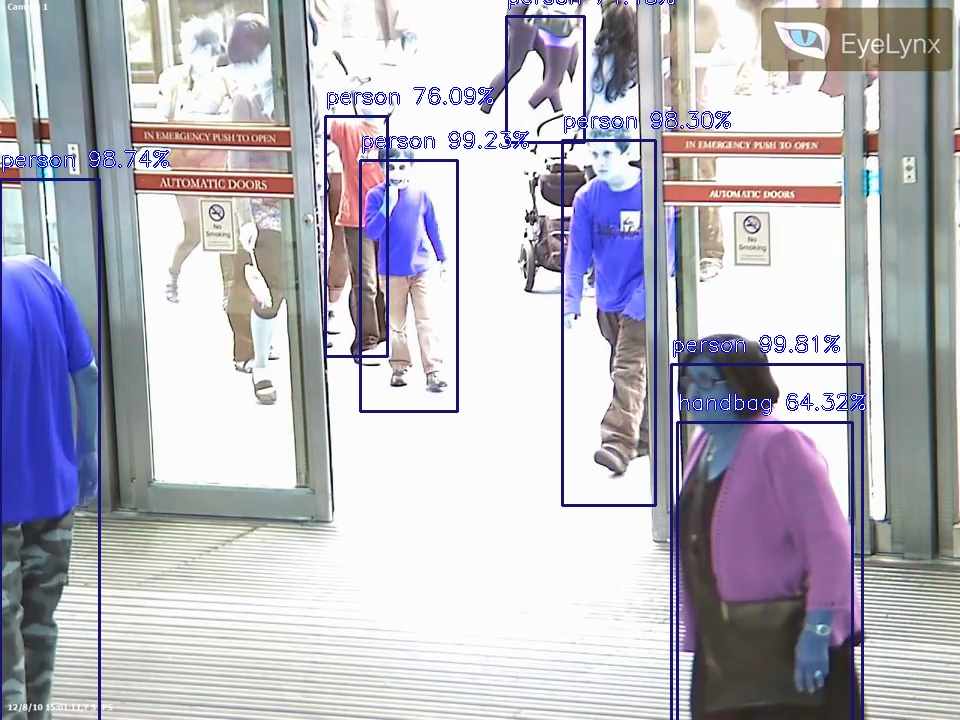
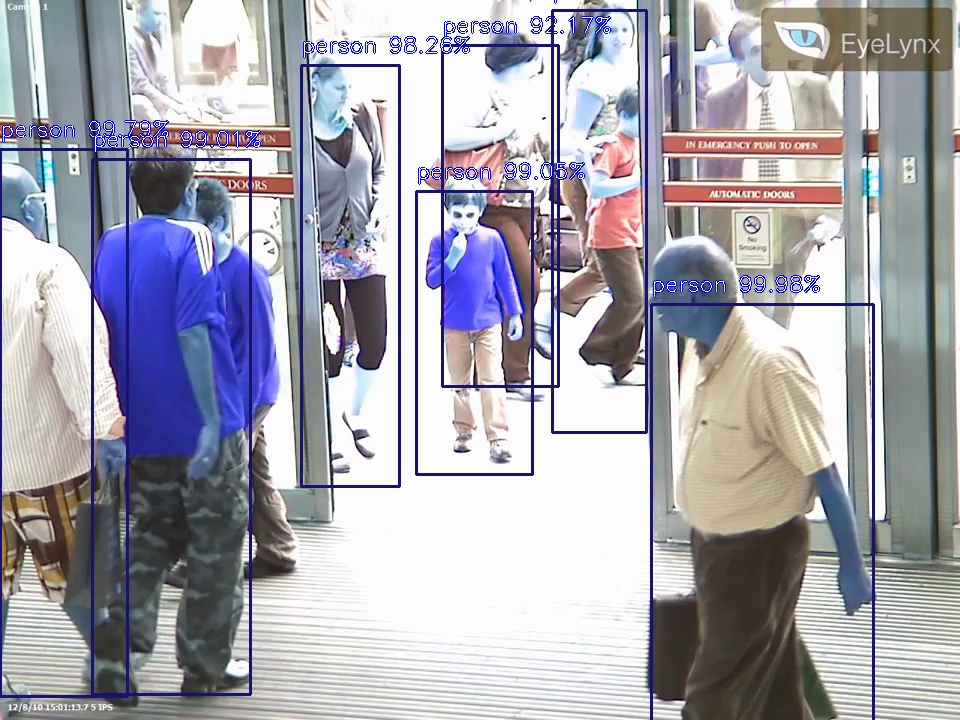
sr gan added

diff --git a/image_enhancing.py b/image_enhancing.py
@@ -1,0 +1,131 @@
+# -*- coding: utf-8 -*-
+"""image_enhancing.ipynb
+
+Automatically generated by Colaboratory.
+
+Original file is located at
+    https://colab.research.google.com/github/tensorflow/hub/blob/master/examples/colab/image_enhancing.ipynb
+
+##### Copyright 2019 The TensorFlow Hub Authors.
+Licensed under the Apache License, Version 2.0 (the "License");
+
+Created by @[Adrish Dey](https://github.com/captain-pool) for [Google Summer of Code](https://summerofcode.withgoogle.com/) 2019
+"""
+
+# Copyright 2019 The TensorFlow Hub Authors. All Rights Reserved.
+#
+# Licensed under the Apache License, Version 2.0 (the "License");
+# you may not use this file except in compliance with the License.
+# You may obtain a copy of the License at
+#
+#     http://www.apache.org/licenses/LICENSE-2.0
+#
+# Unless required by applicable law or agreed to in writing, software
+# distributed under the License is distributed on an "AS IS" BASIS, 
+# WITHOUT WARRANTIES OR CONDITIONS OF ANY KIND, either express or implied.
+# See the License for the specific language governing permissions and
+# limitations under the License.
+# ==============================================================================
+
+"""# Image Super Resolution using ESRGAN
+
+<table class="tfo-notebook-buttons" align="left">
+  <td>
+    <a target="_blank" href="https://www.tensorflow.org/hub/tutorials/image_enhancing"><img src="https://www.tensorflow.org/images/tf_logo_32px.png" />View on TensorFlow.org</a>
+  </td>
+  <td>
+    <a target="_blank" href="https://colab.research.google.com/github/tensorflow/hub/blob/master/examples/colab/image_enhancing.ipynb"><img src="https://www.tensorflow.org/images/colab_logo_32px.png" />Run in Google Colab</a>
+  </td>
+  <td>
+    <a target="_blank" href="https://github.com/tensorflow/hub/blob/master/examples/colab/image_enhancing.ipynb"><img src="https://www.tensorflow.org/images/GitHub-Mark-32px.png" />View on GitHub</a>
+  </td>
+  <td>
+    <a href="https://storage.googleapis.com/tensorflow_docs/hub/examples/colab/image_enhancing.ipynb"><img src="https://www.tensorflow.org/images/download_logo_32px.png" />Download notebook</a>
+  </td>
+  <td>
+    <a href="https://tfhub.dev/captain-pool/esrgan-tf2/1"><img src="https://www.tensorflow.org/images/hub_logo_32px.png" />See TF Hub model</a>
+  </td>
+</table>
+
+This colab demonstrates use of TensorFlow Hub Module for Enhanced Super Resolution Generative Adversarial Network (*by Xintao Wang et.al.*) [[Paper](https://arxiv.org/pdf/1809.00219.pdf)] [[Code](https://github.com/captain-pool/GSOC/)]
+
+for image enhancing. *(Preferrably bicubically downsampled images).*
+
+Model trained on DIV2K Dataset (on bicubically downsampled images) on image patches of size 128 x 128.
+
+**Preparing Environment**
+"""
+
+import os
+import time
+from turtle import shape
+from PIL import Image
+import numpy as np
+import tensorflow as tf
+import tensorflow_hub as hub
+import matplotlib.pyplot as plt
+os.environ["TFHUB_DOWNLOAD_PROGRESS"] = "True"
+
+
+def enhance(img):
+
+  # Declaring Constants
+
+  SAVED_MODEL_PATH = "https://tfhub.dev/captain-pool/esrgan-tf2/1"
+
+  """**Defining Helper Functions**"""
+
+  def preprocess_image(img):
+    """ Loads image from path and preprocesses to make it model ready
+        Args:
+          image_path: Path to the image file
+    """
+    hr_image = tf.convert_to_tensor(img)
+    # If PNG, remove the alpha channel. The model only supports
+    # images with 3 color channels.
+    if hr_image.shape[-1] == 4:
+      hr_image = hr_image[...,:-1]
+    hr_size = (tf.convert_to_tensor(hr_image.shape[:-1]) // 4) * 4
+    hr_image = tf.image.crop_to_bounding_box(hr_image, 0, 0, hr_size[0], hr_size[1])
+    hr_image = tf.cast(hr_image, tf.float32)
+    return tf.expand_dims(hr_image, 0)
+
+  # Commented out IPython magic to ensure Python compatibility.
+  # %matplotlib inline
+  def plot_image(image, title=""):
+    """
+      Plots images from image tensors.
+      Args:
+        image: 3D image tensor. [height, width, channels].
+        title: Title to display in the plot.
+    """
+    image = np.asarray(image)
+    image = tf.clip_by_value(image, 0, 255)
+    image = Image.fromarray(tf.cast(image, tf.uint8).numpy())
+    plt.imshow(image)
+    plt.axis("off")
+    plt.title(title)
+
+  """#### Performing Super Resolution of images loaded from path"""
+
+  hr_image = preprocess_image(img)
+  shape_hr = hr_image.shape
+  print("hr ",shape_hr)
+  # # Plotting Original Resolution image
+  # plot_image(tf.squeeze(hr_image), title="Original Image")
+  # save_image(tf.squeeze(hr_image), filename="Original Image")
+
+  model = hub.load(SAVED_MODEL_PATH)
+
+  start = time.time()
+  fake_image = model(hr_image)
+  fake_image = tf.squeeze(fake_image)
+  print(fake_image.shape)
+  fake_image=tf.constant(fake_image).numpy().astype(np.uint8)
+  print(fake_image.shape)
+  print("Time Taken: %f" % (time.time() - start))
+  return fake_image
+
+  # # Plotting Super Resolution Image
+  # plot_image(tf.squeeze(fake_image), title="Super Resolution")
+  # save_image(tf.squeeze(fake_image), filename="Super Resolution")

diff --git a/main.py b/main.py
@@ -7,11 +7,13 @@ from PIL import Image
 from gender_model import ResNet9, get_default_device, to_device
 import torchvision.transforms as tt
 from age_model import Age_Model
-import scipy
+from scipy import special
 import os
 import time
 import gdown
 from imageai.Detection import ObjectDetection
+import matplotlib.pyplot as plt
+from image_enhancing import enhance
 
 # get present device
 device = get_default_device()
@@ -76,7 +78,7 @@ def predict_gender(img):
     # Get predictions from model
     yb = model_gender(xb)
     # print(yb)
-    probs = scipy.special.softmax(yb.detach().numpy()[0])
+    probs = special.softmax(yb.detach().numpy()[0])
     # print(probs)
     confidence=str(round((max(probs))*100,2))+"%" 
     # Pick index with highest probability
@@ -87,7 +89,7 @@ def predict_gender(img):
 
 def testVideos(vd,i):
     dict={"frame":[],"personid":[],"bb_xmin":[],"bb_ymin":[],"bb_height":[],"bb_width":[],"age_min":[],"age_max":[],"age_actual":[],"gender":[]}
-    x=0
+    frameno=0
     # used to record the time when we processed last frame
     prev_frame_time = 0
     # used to record the time at which we processed current frame
@@ -96,7 +98,7 @@ def testVideos(vd,i):
     # Get a reference to webcam 
     video_capture = cv2.VideoCapture(vd)
     while video_capture.isOpened():
-        x+=1
+        frameno+=1
         # Grab a single frame of video
         ret, frame = video_capture.read()
 
@@ -109,7 +111,9 @@ def testVideos(vd,i):
         # detections = detector.detectObjectsFromImage(input_image=os.path.join(execution_path , "img2.png"), output_image_path=os.path.join(execution_path , "image2new.jpg"), minimum_percentage_probability=30)
         detections = detector.detectObjectsFromImage(input_type="array", input_image=rgb_frame , output_image_path=os.path.join(execution_path , "image.jpg")) # For numpy array input type
         person=0
+        dy = 25
         for eachObject in detections:
+            flag=1
             if(eachObject["name"]=="person"):
                 person+=1
                 print(eachObject["name"] , " : ", eachObject["percentage_probability"], " : ", eachObject["box_points"] )
@@ -117,19 +121,27 @@ def testVideos(vd,i):
                 # Find all the faces in the current frame of video
                             # Find all the faces in the current frame of video
                 x, y, width, height = eachObject["box_points"]
-                # print(x,",",y,",",width,",",height)
+                print(x,",",y,",",width,",",height)
+                print(rgb_frame.shape)
 
-                cv2.rectangle(frame, (x, y), (width, height), (0, 0, 255), 2)
+                cv2.rectangle(frame, (x, max(y-dy,0)), (width, height), (0, 0, 255), 2)
                 
                 # croping the detected body out of the frame
-                center_img_k = rgb_frame[x:width, 
-                                y:height, :]
+                center_img_k = rgb_frame[max(y-dy,0):height, x:width, :]
+                # plt.imshow(Image.fromarray(center_img_k))
+                # plt.show()
+                # print(center_img_k.shape)
+                # center_img_k=enhance(center_img_k)
+                # plt.imshow(Image.fromarray(center_img_k))
+                # plt.show()
+                # cv2.imwrite("original.png",(center_img_k))
                 face_locations = detect_face(center_img_k)
                 # Display the results
                 for top, right, bottom, left, sex_preds, age_preds in face_locations:
+                    print("flag: ",flag,", x=",frameno)
                     dict["age_actual"].append(age_preds)
                     dict["gender"].append(sex_preds)
-                    dict["frame"].append(x)
+                    dict["frame"].append(frameno)
                     dict["personid"].append(person)
                     dict["bb_xmin"].append(min(x,width))
                     dict["bb_ymin"].append(min(y,height))
@@ -139,10 +151,15 @@ def testVideos(vd,i):
                     dict["age_max"].append("Nan")
                     print(person)
                     # Draw a box around the face
+                    left+=x
+                    top+=y
+                    right+=x
+                    bottom+=y
                     cv2.rectangle(frame, (left, top), (right, bottom), (255, 0, 255), 2)
                     text1="Gender: "+sex_preds
                     cv2.putText(frame, text1, (left, top-10), cv2.FONT_HERSHEY_SIMPLEX, 0.5, (36,255,12), 1)
-                    cv2.putText(frame, 'Age: {:.3f}'.format(age_preds), (left, top-25), cv2.FONT_HERSHEY_SIMPLEX, 0.5, (36,255,12), 1)
+                    cv2.putText(frame, 'Age: {:.3f}'.format(age_preds), (left, top-25), cv2.FONT_HERSHEY_SIMPLEX, 0.5, (0,0,255), 1)
+                    flag+=1
 
         # time when we finish processing for this frame
         new_frame_time = time.time()
